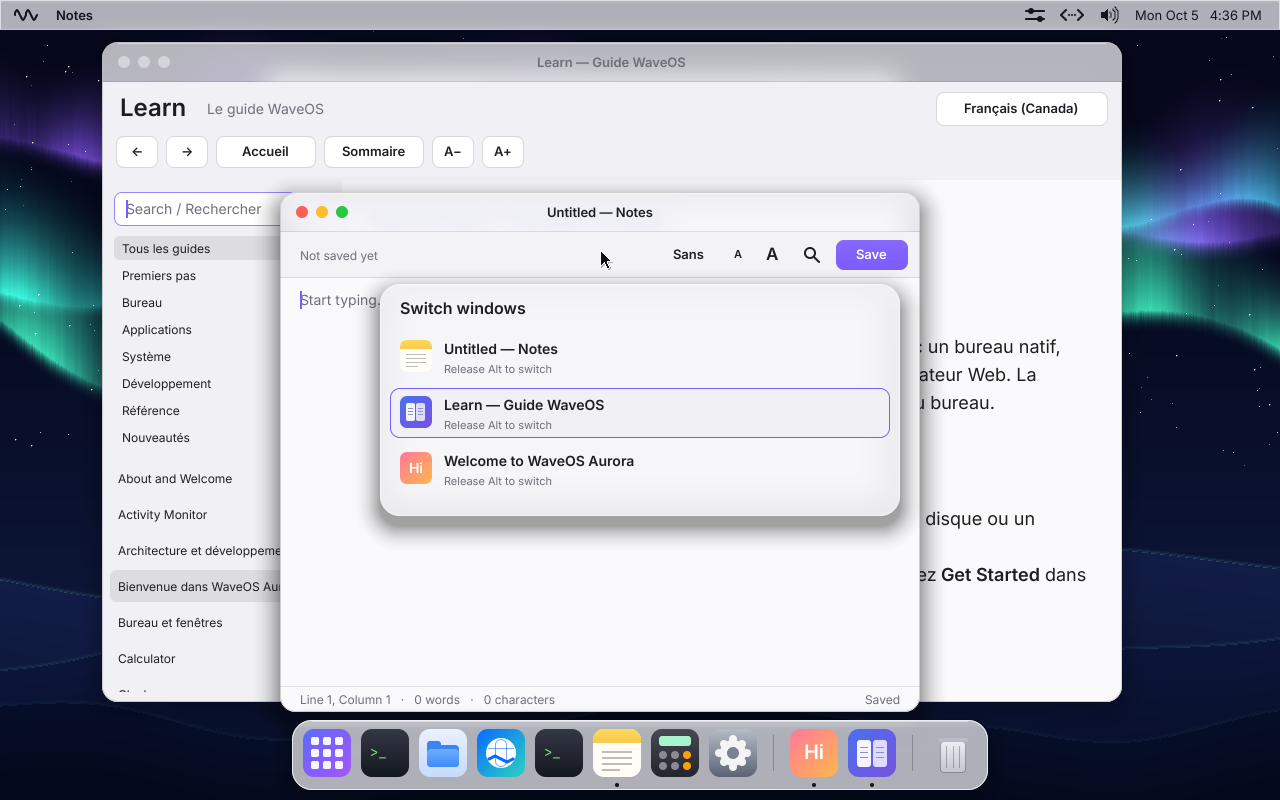
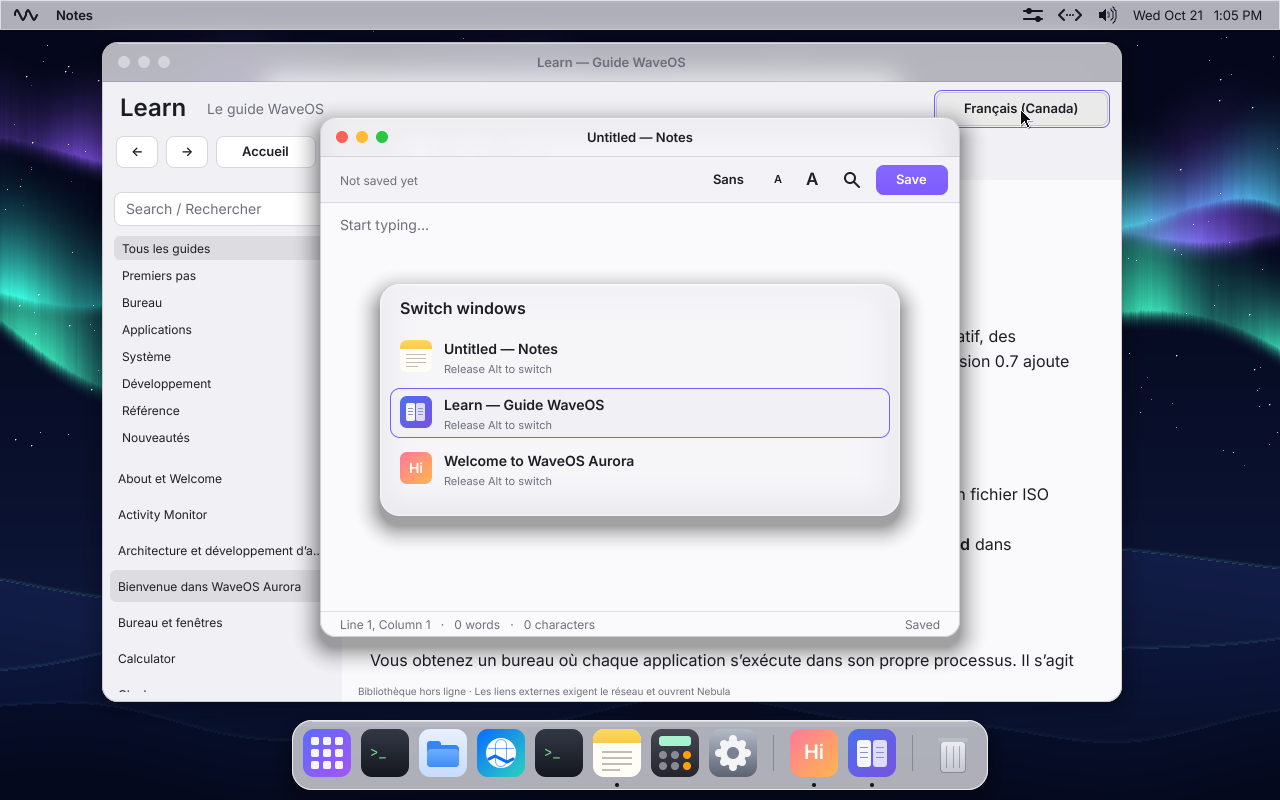
Refresh release screenshots and rebuild offline help without stale assets

Changed region(s): [[0.125, 0.125, 0.8438, 0.9062], [0.8125, 0.0, 1.0, 0.0312], [0.5312, 0.3125, 0.5625, 0.3438]]

diff --git a/xtask/src/help.rs b/xtask/src/help.rs
@@ -81,6 +81,11 @@ fn parsed(source: &str) -> Result<(Vec<Event<'_>>, Vec<(String, String)>, String
 pub fn build(root: &Path) -> Result<PathBuf, String> {
     let base = root.join("docs/handbook/0.7");
     let out = root.join("target/help");
+    // Generated files belong to this build. Old screenshots or removed articles
+    // must not cause false name collisions or remain in the offline library.
+    if out.exists() {
+        fs::remove_dir_all(&out).map_err(|e| e.to_string())?;
+    }
     fs::create_dir_all(&out).map_err(|e| e.to_string())?;
     let mut sources = BTreeMap::new();
     let mut ids = BTreeMap::new();
@@ -268,6 +273,15 @@ mod tests {
         }
         fs::write(&en, "# Start\n[Here](#start)").unwrap();
         assert!(build(&root).is_ok());
+        let image = root.join("docs/screenshot.png");
+        fs::write(&image, b"first screenshot").unwrap();
+        fs::write(&en, "# Start\n![Screen](../../../screenshot.png)").unwrap();
+        let out = build(&root).unwrap();
+        fs::write(out.join("removed.html"), "stale article").unwrap();
+        fs::write(&image, b"updated screenshot").unwrap();
+        build(&root).unwrap();
+        assert_eq!(fs::read(out.join("images/screenshot.png")).unwrap(), b"updated screenshot");
+        assert!(!out.join("removed.html").exists());
         fs::remove_dir_all(root).unwrap();
     }
 }

diff --git a/docs/releases/0.7.0/VALIDATION.md b/docs/releases/0.7.0/VALIDATION.md
@@ -53,3 +53,7 @@ This release includes all Pulsar, browser/media, IPv6, Files and Settings work i
 Cette version inclut les changements Pulsar, navigateur/médias, IPv6, Files et Settings intégrés après le jalon initial du bureau. Les tableaux du 5 octobre restent des mesures historiques des compilations nommées, et non un nouveau test de l’image combinée. Le rapport test262 du 11 octobre est un instantané historique, sans garantie de conformité complète. Les tests multimédias couvrent de vraies données MP4/H.264 et AAC, le MP4 fragmenté et les entrées invalides; la compatibilité avec les services distants reste incomplète. Les licences des décodeurs sont incluses dans l’image système.
 
 The e1000e matrix first reproduced missing IPv6 router advertisements. Enabling multicast reception fixed it; both boots then passed SLAAC, ICMPv6 and the IPv6 transfer checks. / La matrice e1000e a reproduit l’absence d’annonces de routeur IPv6. L’activation de la réception multidiffusion a corrigé le problème; les deux démarrages ont ensuite réussi les vérifications SLAAC, ICMPv6 et de transfert IPv6.
+
+The integrated image also passed all eight in-browser self-checks (DOM, events, canvas, mutation observers and computed styles). Native playback of the five-second, 960×540 H.264/AAC fixture produced changing video frames, reached its end, remained paused when requested, and sought to a later frame. These checks establish the tested fixture path, not streaming-service compatibility.
+
+L’image intégrée a aussi réussi les huit vérifications internes du navigateur (DOM, événements, canevas, observateurs de mutations et styles calculés). La lecture native du fichier H.264/AAC de cinq secondes en 960×540 a affiché des images changeantes, atteint la fin, respecté la pause et changé de position. Ces vérifications portent sur ce fichier d’essai, sans établir la compatibilité avec les services de diffusion.

diff --git a/docs/handbook/0.7/fr-CA/apps-nebula.md b/docs/handbook/0.7/fr-CA/apps-nebula.md
@@ -19,7 +19,9 @@ Voir [Bureau et fenêtres](desktop-windows.md) pour les raccourcis communs et [R
 
 ## Vidéo et audio natifs
 1. Ouvrez un fichier local ou une adresse MP4 accessible contenant de la vidéo H.264 et de l’audio AAC-LC pris en charge.
-2. Utilisez les commandes natives de lecture/pause, de position, de sourdine et de volume. Enregistrez les autres travaux avant d’essayer un gros fichier.
+2. Utilisez Play/Pause et la barre de progression pour changer de position. Réglez la sourdine et le volume avec le haut-parleur du système. Enregistrez les autres travaux avant d’essayer un gros fichier.
 3. Si le décodage échoue, vérifiez le format et le message affiché. Essayez le petit fichier d’essai documenté avant un site de diffusion complexe.
 
 Le lecteur décode sur des fils de travail et synchronise l’affichage avec la sortie audio. Le décodeur limité accepte la vidéo jusqu’à 1920×1088 et l’AAC-LC mono/stéréo jusqu’à 48 kHz. Le MP4 fragmenté et une partie de Media Source Extensions sont implémentés; cela n’établit pas la compatibilité avec les DRM ni avec tous les sites de diffusion. Les formats absents et les fichiers endommagés peuvent être rejetés. Voir [Développement Pulsar et multimédia](developer-pulsar.md).
+
+![Lecture MP4 native dans Nebula sur WaveOS 0.7.0](../../../screenshots/0.7/nebula-native-media.png)

diff --git a/docs/handbook/0.7/en/apps-nebula.md b/docs/handbook/0.7/en/apps-nebula.md
@@ -19,7 +19,9 @@ See [Desktop and windows](desktop-windows.md) for shared shortcuts and [Recovery
 
 ## Native video and audio
 1. Open a local or reachable MP4 URL containing supported H.264 video and AAC-LC audio.
-2. Use the native play/pause, seek, mute, and volume controls. Save other work before trying a large clip.
+2. Use Play/Pause and the timeline to seek. Adjust mute and volume through the system speaker control. Save other work before trying a large clip.
 3. If decoding fails, check the format and the displayed error. Try the documented small test fixture before a complex streaming site.
 
 The player decodes on worker threads and synchronizes presentation with the audio output. The bounded decoder accepts video up to 1920×1088 and mono/stereo AAC-LC up to 48 kHz. Fragmented MP4 and part of Media Source Extensions are implemented; this does not establish DRM or general streaming-site compatibility. Unsupported codecs and damaged files may be rejected. See [Pulsar and media development](developer-pulsar.md).
+
+![Native MP4 playback in Nebula on WaveOS 0.7.0](../../../screenshots/0.7/nebula-native-media.png)
